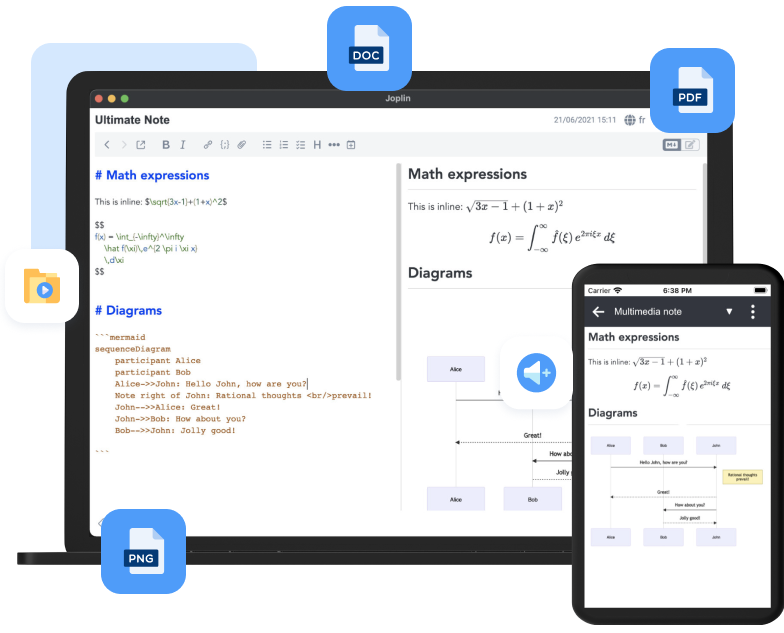
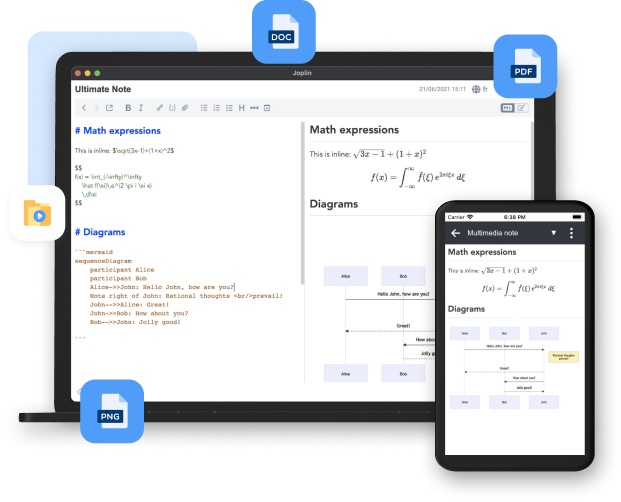
- image / css update

Changed region(s): [[0.0, 0.0, 1.0, 1.0], [0.5813, 0.6873, 0.6119, 0.7171]]

diff --git a/index.html b/index.html
@@ -139,7 +139,7 @@
       <div id="multimedia-notes-section">
         <div class="container">
           <div class="row">
-            <div class="col-12 col-md-6">
+            <div class="col-12 col-md-5 col-xxl-6">
               <div class="ml-30 ml-mobile-0">
                 <h2 id="multimedia-title">
                   Multimedia <span class="frame-bg frame-bg-yellow">notes</span>
@@ -155,7 +155,7 @@
                 </p>
               </div>
             </div>
-            <div class="col-12 col-md-6">
+            <div class="col-12 col-md-7 col-xxl-6">
               <br class="d-block d-lg-none" />
               <br class="d-block d-lg-none" />
               <img
@@ -568,7 +568,6 @@
                 Access your notes from your computer, phone or tablet. All your
                 data is synced to all your devices.
               </p>
-              <br class="d-none d-lg-block" />
               <br />
               <br />
               <p class="text-center">

diff --git a/_assets/css/site.css b/_assets/css/site.css
@@ -238,11 +238,12 @@ p,
 
 /* save-web-section  */
 #save-web-section {
-  padding-top: 180px;
-  padding-bottom: 100px;
+  padding-top: 80px;
+  padding-bottom: 80px;
   background-image: url("../images/save-web-bg.png");
   background-repeat: no-repeat;
-  background-size: contain;
+  background-size: cover;
+  background-position: left bottom;
 }
 
 #save-web-title {
@@ -298,8 +299,8 @@ p,
 
 /* your-note-section  */
 #your-note-section {
-  padding-top: 90px;
-  padding-bottom: 55px;
+  padding-top: 50px;
+  padding-bottom: 0px;
   background-image: url("../images/your-note-bg.png");
   background-position: left;
   background-repeat: no-repeat;
